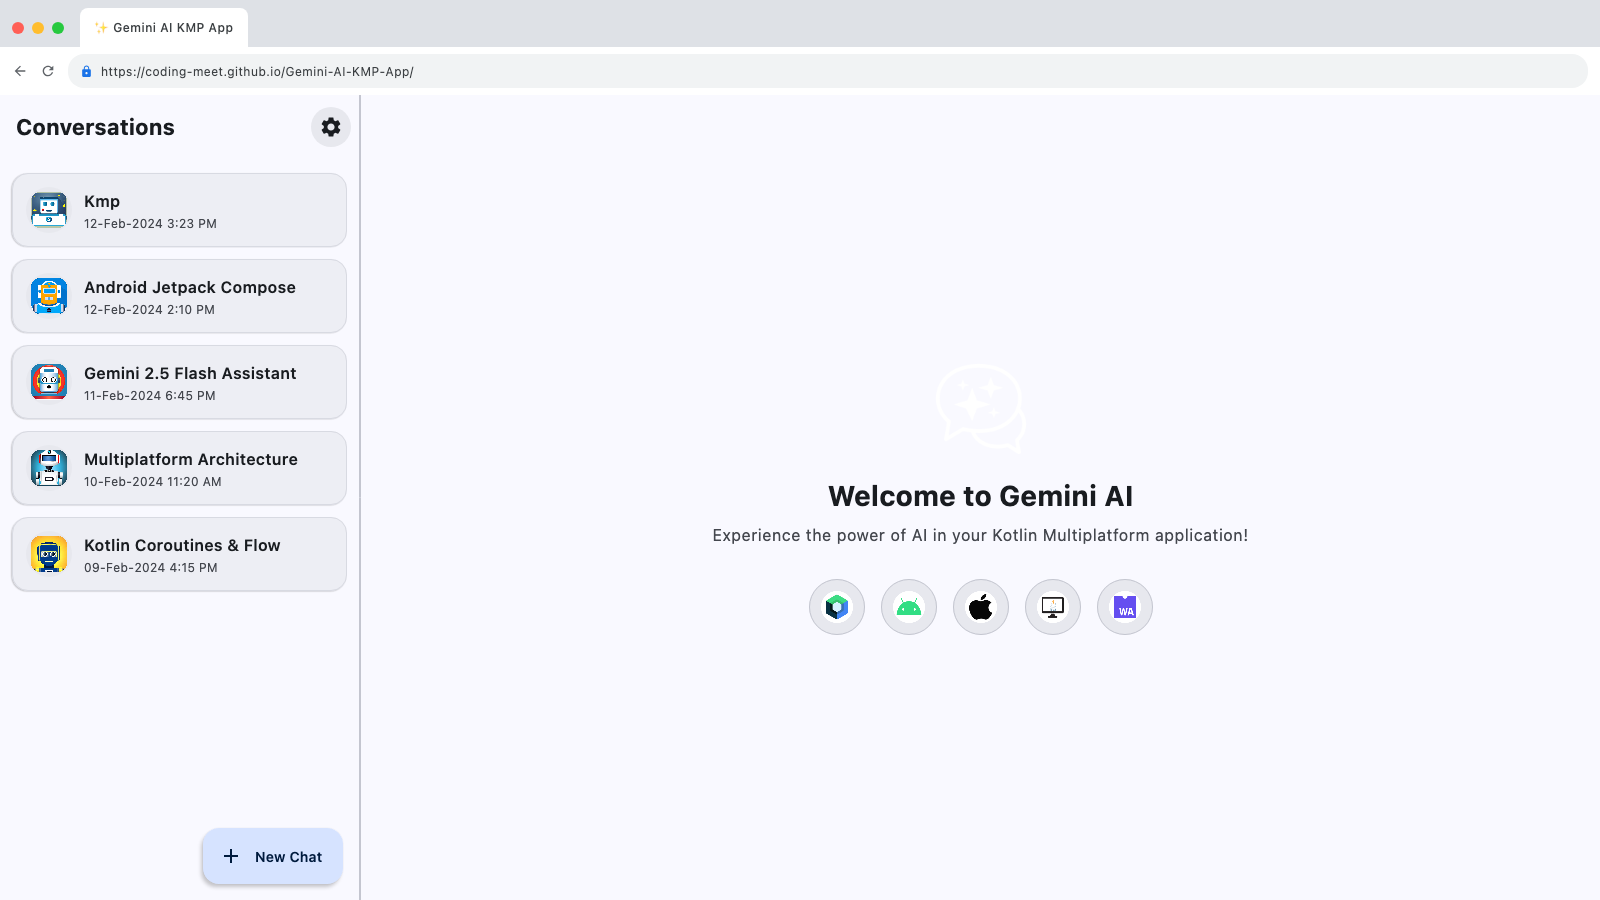
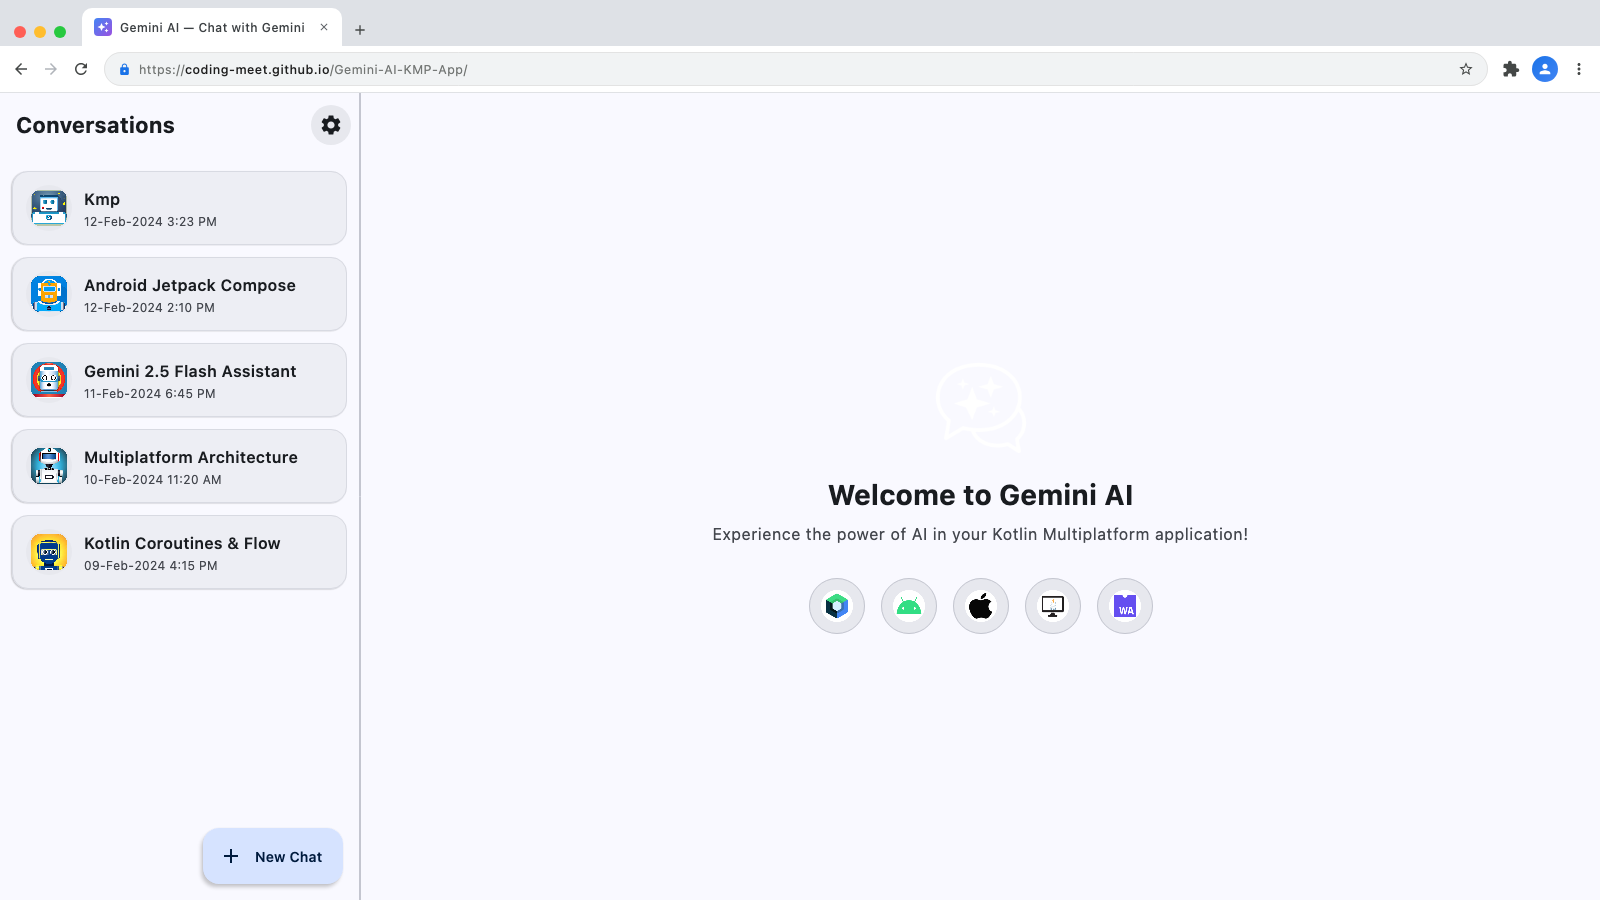
refactor: replace custom browser top bar with WebBrowserFrame component

diff --git a/screenshot/src/main/kotlin/com/coding/meet/gaminiaikmp/screenshot/ScreenshotRenderers.kt b/screenshot/src/main/kotlin/com/coding/meet/gaminiaikmp/screenshot/ScreenshotRenderers.kt
@@ -2,12 +2,7 @@ package com.coding.meet.gaminiaikmp.screenshot
 
 import androidx.compose.foundation.background
 import androidx.compose.foundation.layout.*
-import androidx.compose.foundation.shape.CircleShape
 import androidx.compose.foundation.shape.RoundedCornerShape
-import androidx.compose.material.icons.Icons
-import androidx.compose.material.icons.automirrored.filled.ArrowBack
-import androidx.compose.material.icons.filled.Lock
-import androidx.compose.material.icons.filled.Refresh
 import androidx.compose.material3.*
 import androidx.compose.runtime.Composable
 import androidx.compose.runtime.CompositionLocalProvider
@@ -18,16 +13,13 @@ import androidx.compose.ui.geometry.Offset
 import androidx.compose.ui.geometry.Rect
 import androidx.compose.ui.geometry.Size
 import androidx.compose.ui.graphics.Canvas
-import androidx.compose.ui.graphics.Color
 import androidx.compose.ui.graphics.ImageBitmap
 import androidx.compose.ui.graphics.asSkiaBitmap
 import androidx.compose.ui.graphics.drawscope.CanvasDrawScope
 import androidx.compose.ui.graphics.drawscope.scale
-import androidx.compose.ui.text.font.FontWeight
 import androidx.compose.ui.unit.Density
 import androidx.compose.ui.unit.LayoutDirection
 import androidx.compose.ui.unit.dp
-import androidx.compose.ui.unit.sp
 import com.apadmi.cmpdevicepreview.core.Appearance
 import com.apadmi.cmpdevicepreview.core.DeviceConfiguration
 import com.apadmi.cmpdevicepreview.core.DeviceOrientation
@@ -35,6 +27,7 @@ import com.apadmi.cmpdevicepreview.core.DevicePreset
 import com.apadmi.cmpdevicepreview.preview.DeviceFrameView
 import com.apadmi.cmpdevicepreview.preview.DeviceScreenshots
 import com.apadmi.cmpdevicepreview.preview.LocalDeviceScreenshots
+import com.apadmi.cmpdevicepreview.preview.WebBrowserFrame
 import com.coding.meet.gaminiaikmp.presentation.screens.grouplistscreen.GroupListScreenContent
 import com.coding.meet.gaminiaikmp.presentation.screens.grouplistscreen.GroupUiState
 import com.coding.meet.gaminiaikmp.theme.AppTheme
@@ -207,20 +200,12 @@ internal fun renderWebBrowserScreen(
 
     val scene = ImageComposeScene(width = sceneWidth, height = sceneHeight) {
         AppTheme(themeMode = if (isDark) AppThemeMode.DARK else AppThemeMode.LIGHT) {
-            Column(
-                modifier = Modifier
-                    .fillMaxSize()
-                    .background(if (isDark) Color(0xFF202124) else Color(0xFFF1F3F4))
-            ) {
-                BrowserTopBar(isDark = isDark)
-                Box(
-                    modifier = Modifier
-                        .weight(1f)
-                        .fillMaxWidth()
-                ) {
-                    content()
-                }
-            }
+            WebBrowserFrame(
+                title = "Gemini AI — Chat with Gemini",
+                url = "https://coding-meet.github.io/Gemini-AI-KMP-App/",
+                isDark = isDark,
+                content = content
+            )
         }
     }
 
@@ -237,101 +222,6 @@ internal fun renderWebBrowserScreen(
         }
     } finally {
         scene.close()
-    }
-}
-
-@Composable
-private fun BrowserTopBar(isDark: Boolean) {
-    val tabStripBg = if (isDark) Color(0xFF1E1F22) else Color(0xFFDEE1E6)
-    val tabBg = if (isDark) Color(0xFF2B2D30) else Color(0xFFFFFFFF)
-    val tabTextColor = if (isDark) Color.White else Color(0xFF3C4043)
-    val addressStripBg = if (isDark) Color(0xFF2B2D30) else Color(0xFFFFFFFF)
-    val navIconColor = if (isDark) Color(0xFF9AA0A6) else Color(0xFF5F6368)
-    val urlBoxBg = if (isDark) Color(0xFF1E1F22) else Color(0xFFF1F3F4)
-    val urlTextColor = if (isDark) Color(0xFFE8EAED) else Color(0xFF3C4043)
-    val lockColor = if (isDark) Color(0xFF8AB4F8) else Color(0xFF1A73E8)
-
-    Column(
-        modifier = Modifier
-            .fillMaxWidth()
-            .background(tabStripBg)
-    ) {
-        Row(
-            modifier = Modifier
-                .fillMaxWidth()
-                .padding(start = 12.dp, top = 8.dp, end = 12.dp),
-            verticalAlignment = Alignment.CenterVertically
-        ) {
-            Row(horizontalArrangement = Arrangement.spacedBy(8.dp)) {
-                Box(modifier = Modifier.size(12.dp).background(Color(0xFFFF5F56), CircleShape))
-                Box(modifier = Modifier.size(12.dp).background(Color(0xFFFFBD2E), CircleShape))
-                Box(modifier = Modifier.size(12.dp).background(Color(0xFF27C93F), CircleShape))
-            }
-            Spacer(modifier = Modifier.width(16.dp))
-            Surface(
-                shape = RoundedCornerShape(topStart = 8.dp, topEnd = 8.dp),
-                color = tabBg,
-                modifier = Modifier.padding(bottom = 0.dp)
-            ) {
-                Row(
-                    modifier = Modifier.padding(horizontal = 14.dp, vertical = 7.dp),
-                    verticalAlignment = Alignment.CenterVertically
-                ) {
-                    Text(
-                        text = "✨ Gemini AI KMP App",
-                        color = tabTextColor,
-                        fontSize = 12.sp,
-                        fontWeight = FontWeight.Medium
-                    )
-                }
-            }
-        }
-
-        Row(
-            modifier = Modifier
-                .fillMaxWidth()
-                .background(addressStripBg)
-                .padding(horizontal = 12.dp, vertical = 7.dp),
-            verticalAlignment = Alignment.CenterVertically
-        ) {
-            Icon(
-                imageVector = Icons.AutoMirrored.Filled.ArrowBack,
-                contentDescription = null,
-                tint = navIconColor,
-                modifier = Modifier.size(16.dp)
-            )
-            Spacer(modifier = Modifier.width(12.dp))
-            Icon(
-                imageVector = Icons.Default.Refresh,
-                contentDescription = null,
-                tint = navIconColor,
-                modifier = Modifier.size(16.dp)
-            )
-            Spacer(modifier = Modifier.width(12.dp))
-            Surface(
-                shape = RoundedCornerShape(16.dp),
-                color = urlBoxBg,
-                modifier = Modifier.weight(1f)
-            ) {
-                Row(
-                    modifier = Modifier.padding(horizontal = 12.dp, vertical = 5.dp),
-                    verticalAlignment = Alignment.CenterVertically
-                ) {
-                    Icon(
-                        imageVector = Icons.Default.Lock,
-                        contentDescription = null,
-                        tint = lockColor,
-                        modifier = Modifier.size(13.dp)
-                    )
-                    Spacer(modifier = Modifier.width(8.dp))
-                    Text(
-                        text = "https://coding-meet.github.io/Gemini-AI-KMP-App/",
-                        color = urlTextColor,
-                        fontSize = 12.sp
-                    )
-                }
-            }
-        }
     }
 }
 
